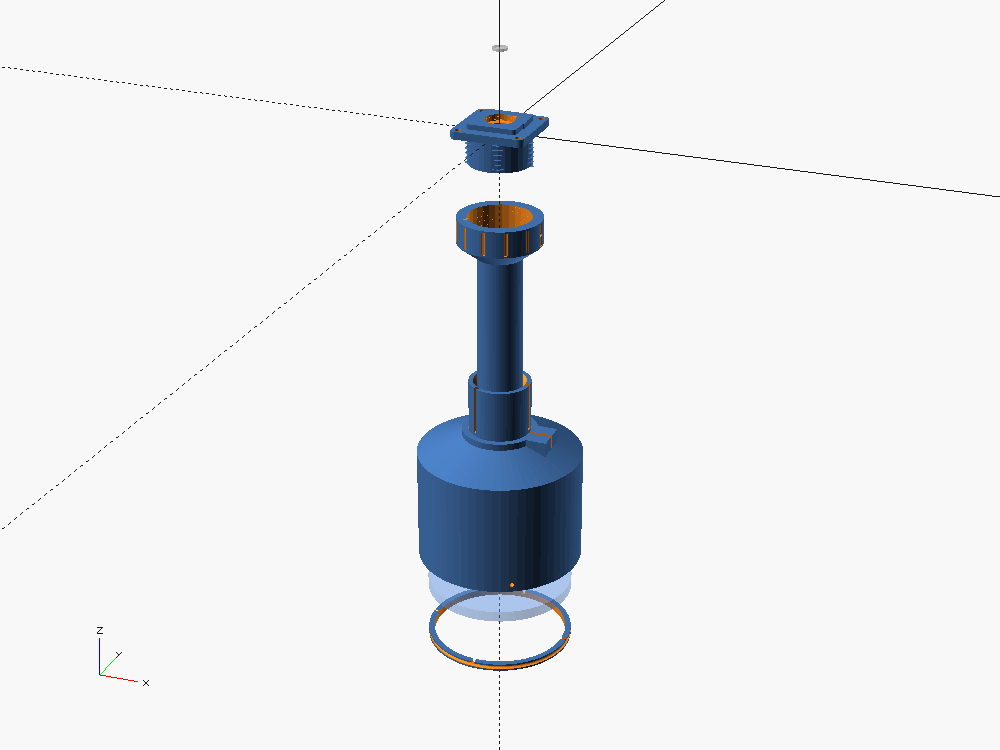
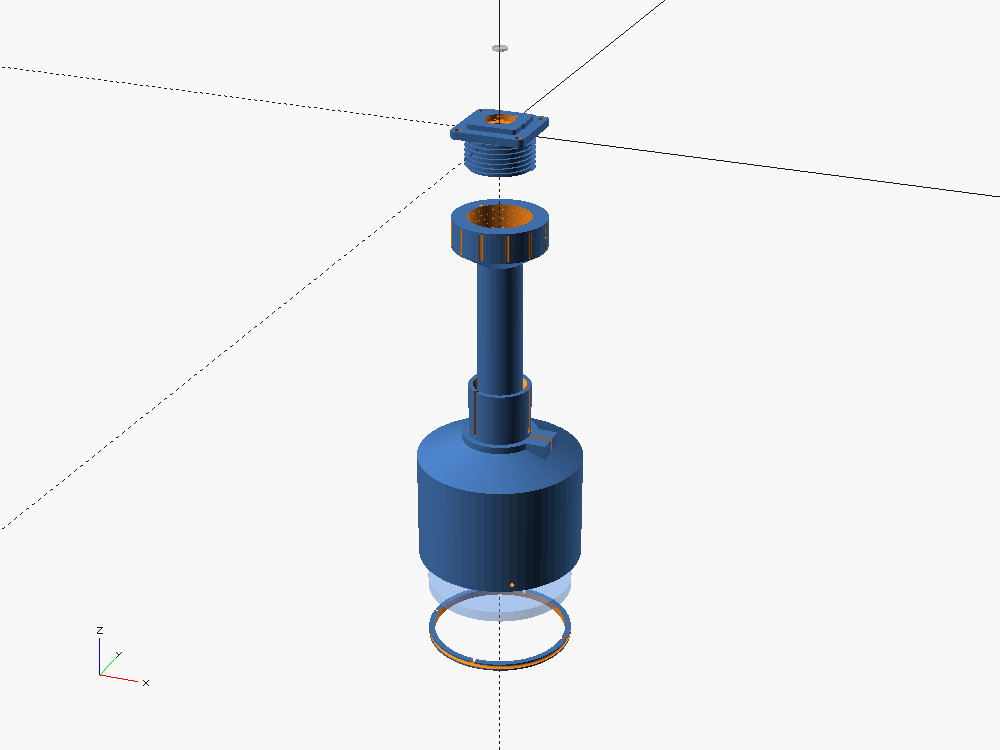
receiver: firm up the fine-focus helicoid
The helicoid was modelled too coarsely (~5 extrude slices/turn) — it rendered as a
ragged spiral fin and would have engaged badly.

- helix.scad: ~22 slices/turn (was ~5), HELIX_FN 30 -> 60. The thread is now a
  clean Ø36 / 2.5 mm-pitch / 1.5 mm-deep square thread — coarse but solid, prints
  vertical with no support.
- helix_engage 8 -> 10 mm (4 turns always meshed, was ~3).
- stem_collar_od helix_major+2*wall+3 -> +8 (Ø50): ~5.5 mm wall behind the female
  thread so the M3 grub lock can't split the collar.
- barrel_rear_gap 58 -> 60 to keep the far-focus assert margin after the longer
  helicoid pushed the stem neck down.
- docs: thread spec + a note that the helicoid carries the barrel/optic load.

flange/stem STL render ~40 s / 17 s (was ~28 / 11); `make check` still ~20 s
(echo-only). All parts 2-manifold.

diff --git a/docs/receiver-optic.md b/docs/receiver-optic.md
@@ -27,13 +27,19 @@ stray light. Range: **125 – 175 mm** (`focus_nominal ± focus_travel`) — ~1 
 to past infinity.
 
 **Fine: printed helicoid.** The **`stem`** threads onto a male boss on the **`flange`**
-via a light square-profile helicoid (`scad/lib/receiver/helix.scad` — a
+via a square-profile helicoid (`scad/lib/receiver/helix.scad` — a
 `linear_extrude(twist=…)` thread, far cheaper under CGAL than a BOSL2 `threaded_rod`,
 and a square profile prints better on FDM anyway). Grip the knurled stem collar,
 rotate for **`fine_travel` = 6 mm** of continuous travel (~2.4 turns at 2.5 mm
 pitch), lock with a radial M3 grub in the collar. This moves the whole optical tube
 against the body-mounted detector — standard camera-lens focus. Nothing a cable
 crosses rotates (the AFE stays on the fixed flange).
+
+Thread spec: **Ø36 major, 2.5 mm pitch, 1.5 mm deep, ~4 turns (10 mm) always
+engaged, 0.35 mm running clearance.** Coarse and chunky — 5× an M3, prints cleanly
+vertical with no support. The stem collar is Ø50 (≈5.5 mm wall behind the thread) so
+the M3 grub does not split it. Render smoothness vs. time is
+`HELIX_FN` / `helix_slices` in `helix.scad`.
 
 ## Coordinate convention
 
@@ -97,9 +103,12 @@ not exactly f = 150 mm, set `focus_nominal` to its actual back focus and keep
   but neither telescoping joint is light-tight. The Ø6 field stop + the 808 nm
   bandpass filter are the real defense; blacken the bores and, in sunlight, wrap
   the clamp. See the notes in `design-notes.md`.
-- **Helicoid feel.** A square printed thread at 2.5 mm pitch is coarse and a bit
-  notchy; fine for set-and-lock focus, not a silky camera helicoid. `HELIX_FN` /
-  `helix_slices` in `helix.scad` trade render time for smoothness.
+- **Helicoid feel.** A square printed thread at 2.5 mm pitch is coarse — fine for
+  set-and-lock focus, not a silky camera helicoid. It carries the full weight and
+  bending moment of the barrel + optic (the wrap clamp fixes the barrel to the
+  stem), so print it in a stiff material and don't rely on the grub alone if the
+  instrument gets knocked around — a locknut or thread-locker on the helicoid is
+  cheap insurance.
 - **Single bearing.** The barrel rides the stem on one 30 mm collet; a second
   bearing near the optic would cut focus wobble.
 - **Laser path not included** — receiver only, per the current plan. Bistatic
